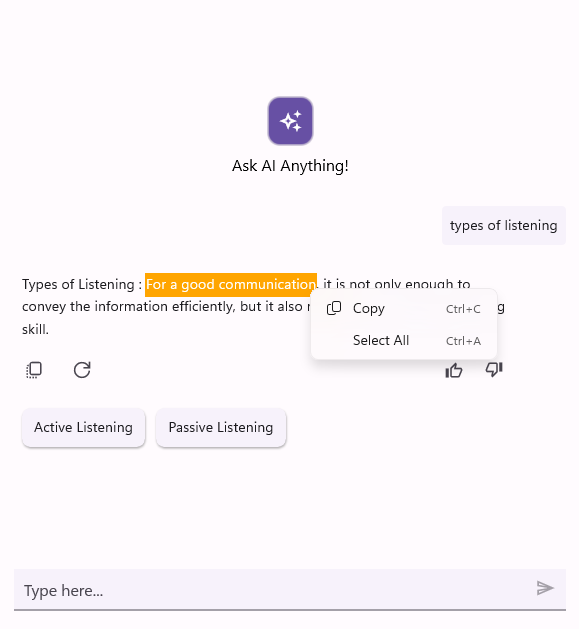
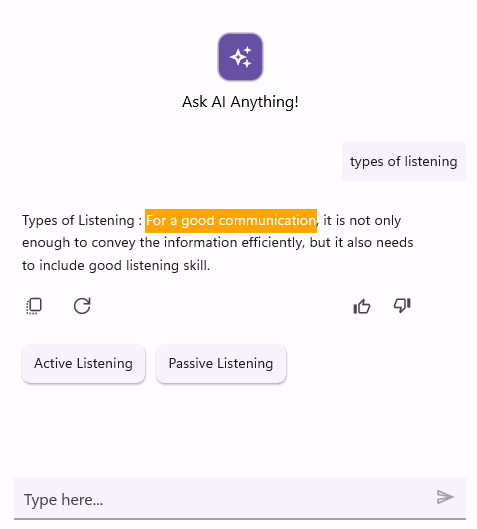
adding gif

diff --git a/MAUI/AIAssistView/working-with-aiassistview.md b/MAUI/AIAssistView/working-with-aiassistview.md
@@ -276,4 +276,4 @@ public partial class MainPage : ContentPage
 {% endhighlight %}
 {% endtabs %}
 
-![Text Selection in .NET MAUI AI AssistView](Images/working-with-aiassistview/maui-aiassistview-textselection.png)
+![Text Selection in .NET MAUI AI AssistView](Images/working-with-aiassistview/maui-aiassistview-textselection.gif)
